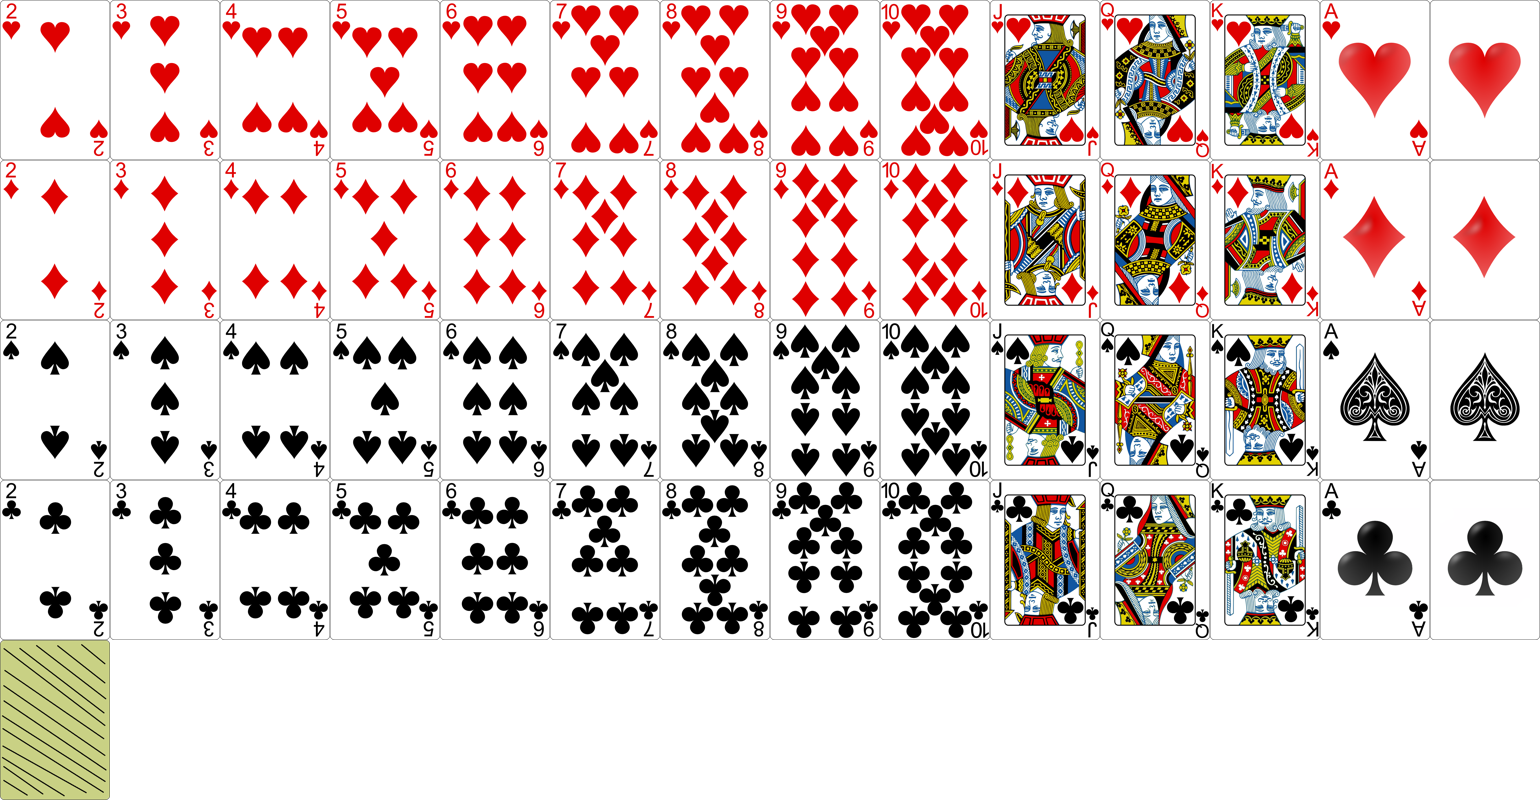
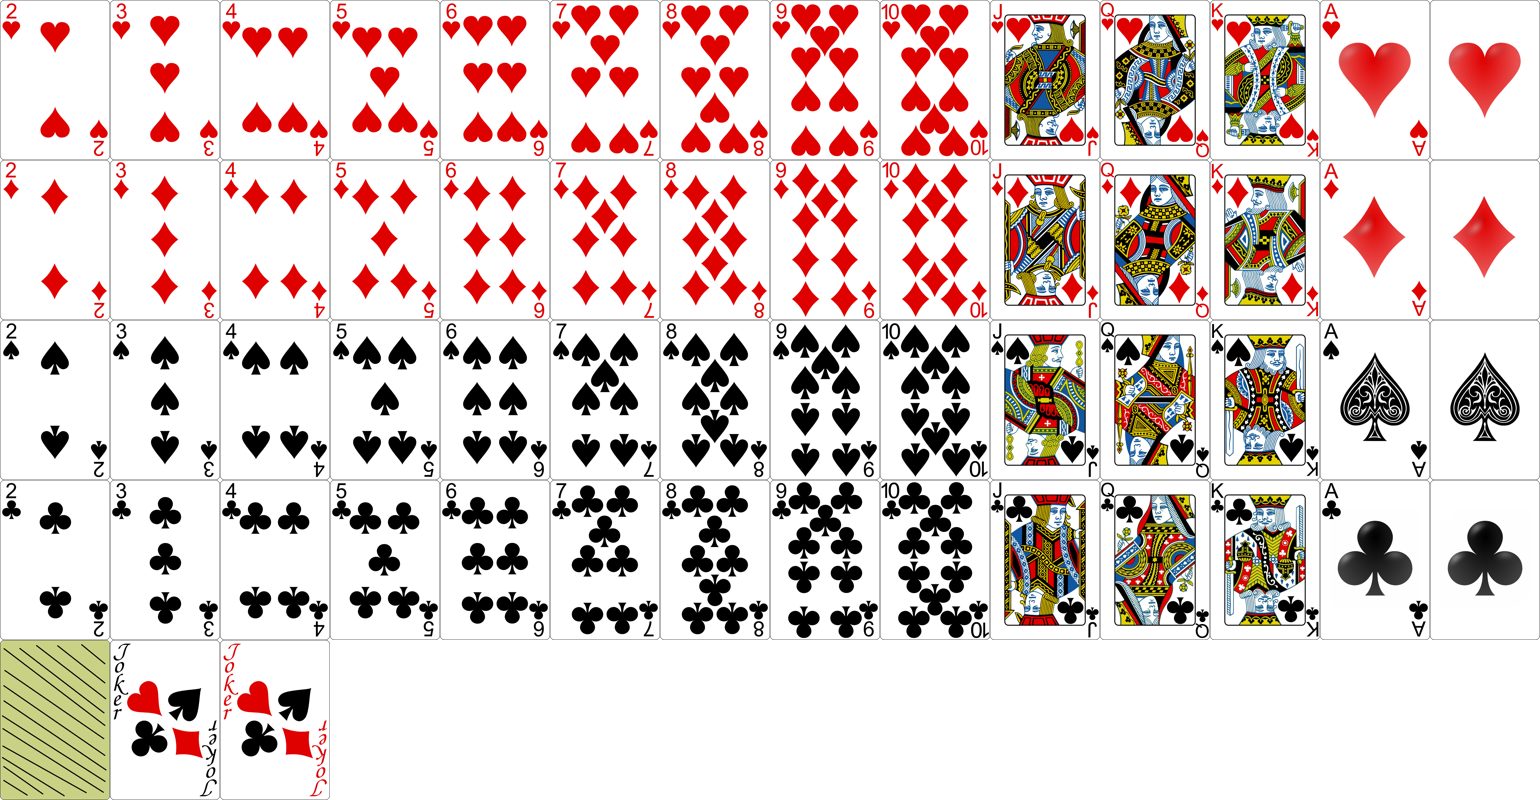
Add Jokers in game

Changed region(s): [[0.0623, 0.8125, 0.2182, 1.0]]

diff --git a/src/app/game/GamePage.jsx b/src/app/game/GamePage.jsx
@@ -30,7 +30,7 @@ import server, {getUser, connect} from "../server"
 const suits = ["hearts", "diamonds", "clubs", "spades"];
 const values = {
   "2": 'two', "3": 'three', "4": 'four', "5": 'five', "6": 'six', "7": 'seven', "8": 'eight', "9": 'nine', "10": 'ten',
-  "jack": 'jack', "queen": 'queen', "king": 'king', "ace": 'ace', 'mirror': 'mirror'
+  "jack": 'jack', "queen": 'queen', "king": 'king', "ace": 'ace', 'mirror': 'mirror', 'joker': 'joker'
 };
 
 

diff --git a/src/app/game/cards.css b/src/app/game/cards.css
@@ -231,3 +231,11 @@
     background: url(game/cards.png) calc(-110px * 13) -30rem;
     opacity: 0.7;
 }
+
+.joker_of_black {
+    background: url(game/cards.png) calc(-110px * 1) -40rem;
+}
+
+.joker_of_red {
+    background: url(game/cards.png) calc(-110px * 2) -40rem;
+}

diff --git a/src/pesten/pesten.py b/src/pesten/pesten.py
@@ -11,7 +11,8 @@ logger = logging.getLogger(__name__)
 
 SUITS = ["hearts", "diamonds", "spades", "clubs"]
 VALUES = ["2", "3", "4", "5", "6", "7", "8", "9", "10", "jack", "queen", "king", "ace"]
-
+BLACK_JOKER = 77
+RED_JOKER = 78
 
 def card(suit, value):
     # suit: 0-4, value 0-13
@@ -72,6 +73,8 @@ class Pesten:
         # TODO: Check if the choose is a special card and a last one
         played_card = self.curr_hand[choose]
         top_card = self.play_stack[-1]
+        if played_card or top_card == BLACK_JOKER or RED_JOKER:
+            return True
         suit_top_card = (top_card // 13) % 4 # There should only be 52 cards with 51 being the highest
         return played_card // 13 == suit_top_card or played_card % 13 == top_card % 13
 

diff --git a/src/server/server.py b/src/server/server.py
@@ -20,6 +20,9 @@ async def lifespan(app: FastAPI):
     cards = [card(suit, value) for suit in range(4) for value in range(13)]
     random.shuffle(cards)
     lobby_name = "met regels"
+    get_lobbies()['jokers'] = Lobby(Pesten(2,2, [77,77,77,77,77,77,77,77,77,77,30,0,], {}), 'admin')
+    asyncio.create_task(get_lobbies()['jokers'].connect(Player(f'admin', NullConnection())))
+    asyncio.create_task(get_lobbies()['jokers'].connect(Player(f'test AI1', AIConnection(get_lobbies()['jokers'].game, 1))))
     get_lobbies()[lobby_name] = Lobby(Pesten(2, 8, cards, {
         9: 'change_suit',
         0: 'draw_card',

diff --git a/src/server/lobby/schemas.py b/src/server/lobby/schemas.py
@@ -1,7 +1,7 @@
 from typing import Optional
 
 from pydantic import BaseModel
-from pesten.pesten import card_string
+from pesten.pesten import card_string, RED_JOKER, BLACK_JOKER
 
 
 
@@ -39,6 +39,10 @@ class Card(BaseModel):
 
     @classmethod
     def from_int(cls, card):
+        if card == RED_JOKER:
+            return cls(suit='red', value='joker')
+        if card == BLACK_JOKER:
+            return cls(suit='black', value='joker')
         suit, value = card_string(card).split(' ')
         return cls(suit=suit, value=value)
 
